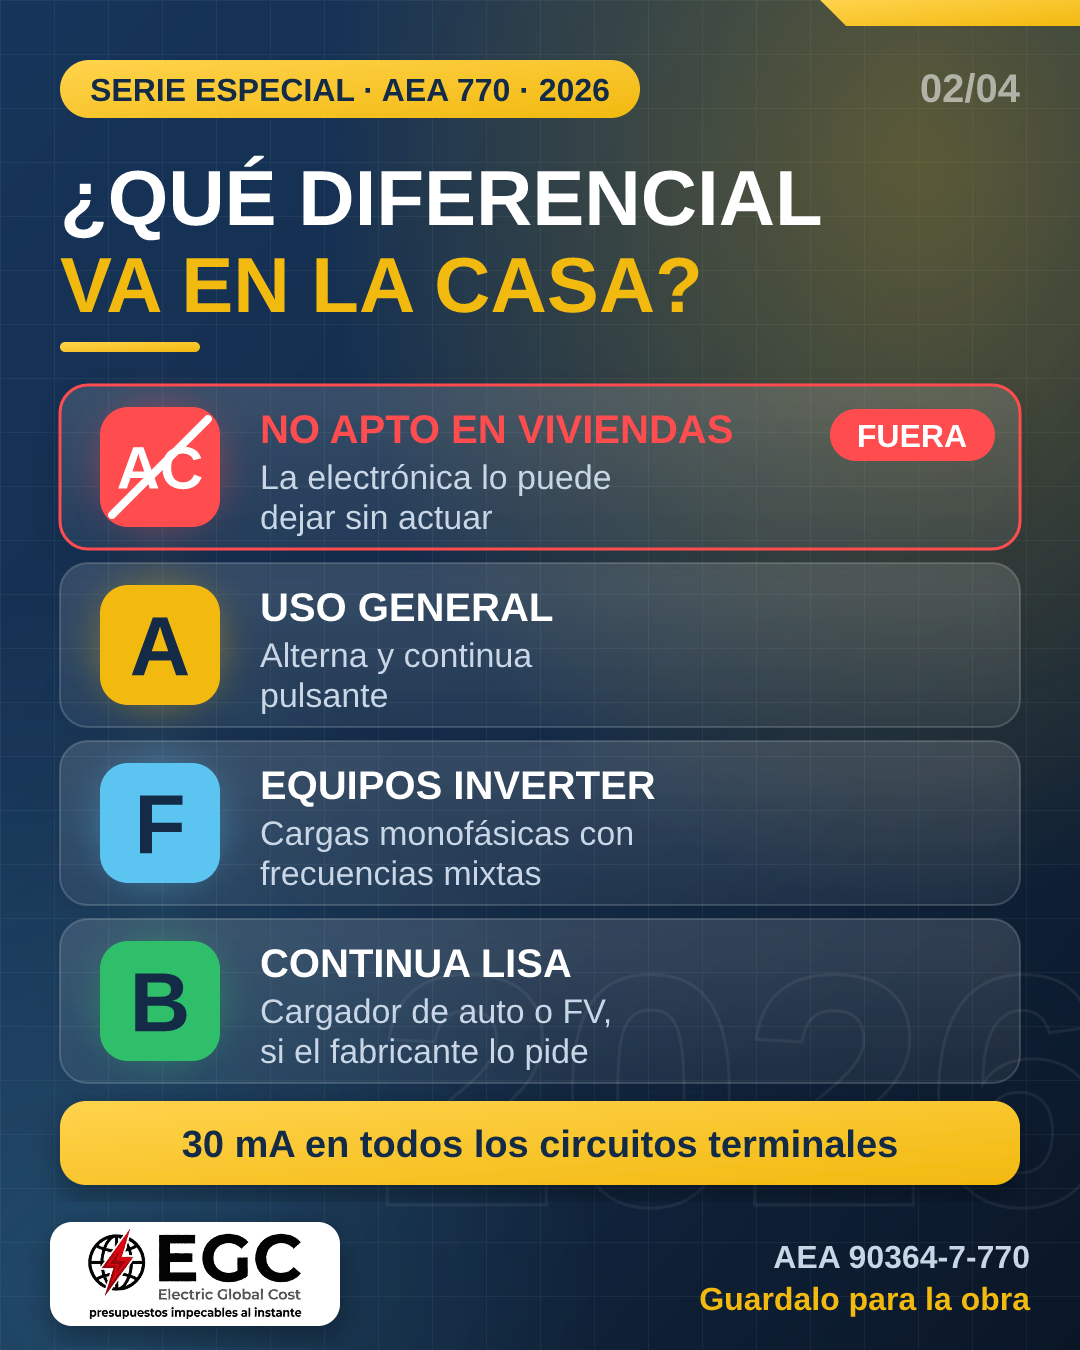
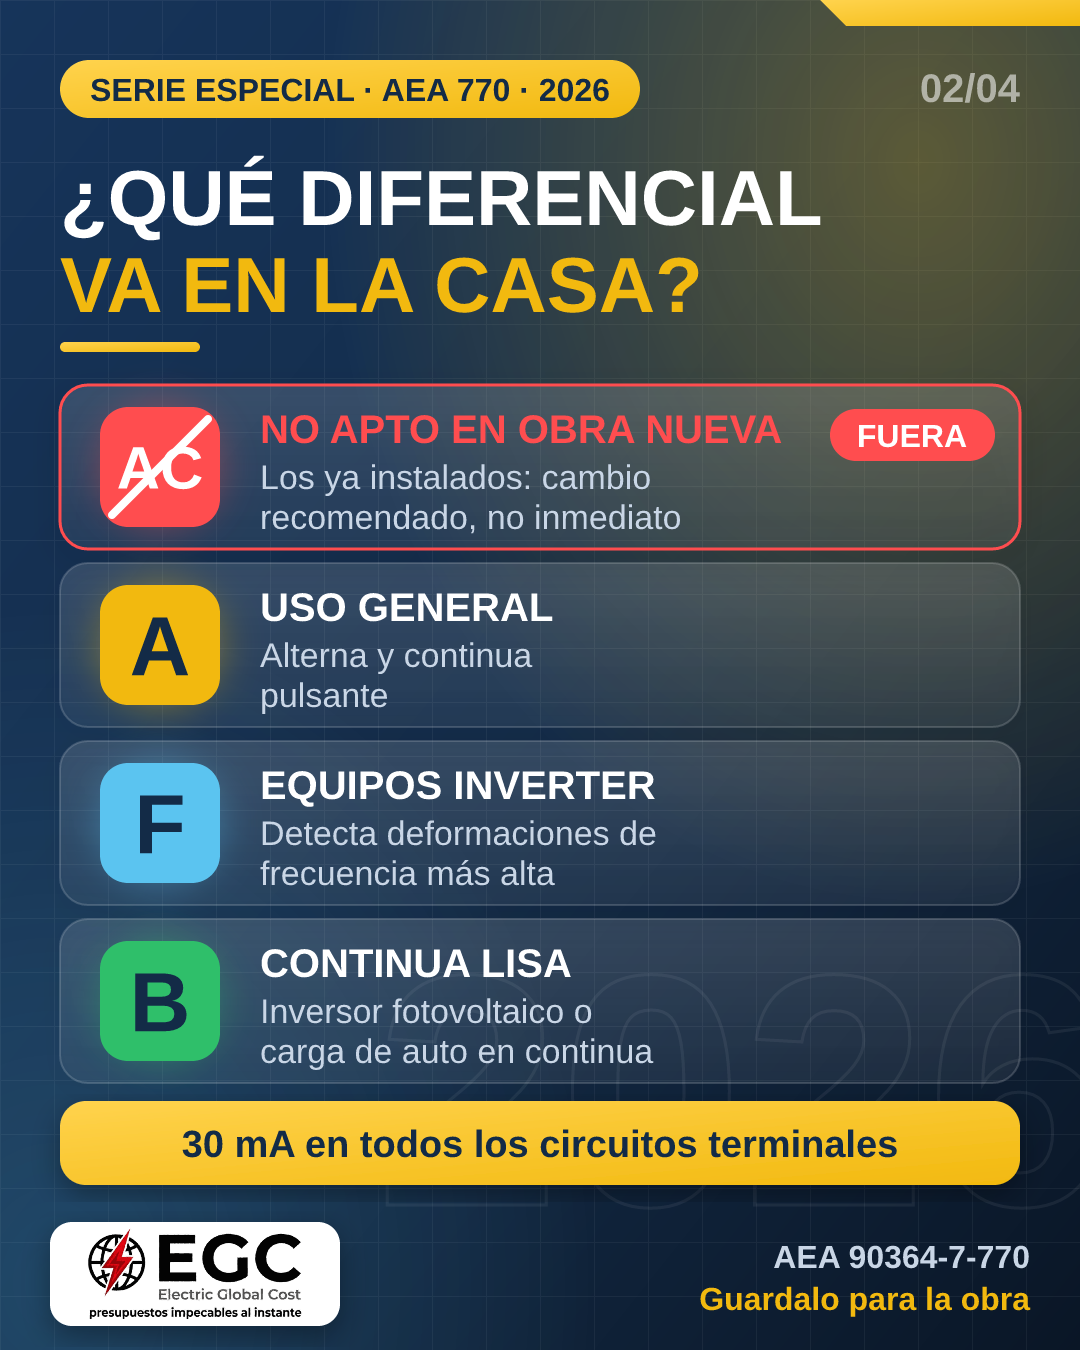
Ficha 52: AEA 770 2026 según el video del Comité 10; corrige ficha 51 y placa de diferenciales
Claude-Session: https://claude.ai/code/session_01KVi6ikw2M5hrQTqxr84mPn

Changed region(s): [[0.2444, 0.3111, 0.7333, 0.4044], [0.2444, 0.7156, 0.6111, 0.8089], [0.2444, 0.5911, 0.6111, 0.6533]]

diff --git a/generador/extra-aea2026-diferenciales.py b/generador/extra-aea2026-diferenciales.py
@@ -6,10 +6,10 @@ from serie2026 import *
 s = fondo(2, 4, '¿QUÉ DIFERENCIAL', 'VA EN LA CASA?')
 
 filas = [
-    ('AC', ROJO, 'NO APTO EN VIVIENDAS', 'La electrónica lo puede', 'dejar sin actuar'),
+    ('AC', ROJO, 'NO APTO EN OBRA NUEVA', 'Los ya instalados: cambio', 'recomendado, no inmediato'),
     ('A', AMA, 'USO GENERAL', 'Alterna y continua', 'pulsante'),
-    ('F', CIAN, 'EQUIPOS INVERTER', 'Cargas monofásicas con', 'frecuencias mixtas'),
-    ('B', VERDE, 'CONTINUA LISA', 'Cargador de auto o FV,', 'si el fabricante lo pide'),
+    ('F', CIAN, 'EQUIPOS INVERTER', 'Detecta deformaciones de', 'frecuencia más alta'),
+    ('B', VERDE, 'CONTINUA LISA', 'Inversor fotovoltaico o', 'carga de auto en continua'),
 ]
 Y0, H, G = 385, 164, 14
 for i, (letra, color, tit, l1, l2) in enumerate(filas):

diff --git a/CLAUDE.md b/CLAUDE.md
@@ -190,11 +190,11 @@ Los comerciales los publica GitHub (workflow `publicar-comerciales.yml`) directo
 
 Resumen. El detalle y las referencias exactas están en `conocimiento/`.
 
-- **AEA 90364-7-770 EDICIÓN 2026 VIGENTE desde el 1/11/2026.** Las fichas 01 a 12 son de la edición 2017. Aplicación obligatoria desde el **1/3/2027** (ficha 51). Antes de afirmar un valor, revisar `conocimiento/49`, `50` y `51`: si cambió, usar el de 2026 y decir "edición 2026". Cambios clave: PAT ≤ 100 Ω; tipo AC no apto; obra nueva = un circuito de uso general por caño (excepción 3 circuitos / 40 A solo en reformas, sin límite de 15 bocas); IUE máx. 15 bocas y 32 A; simultaneidad 10 o más circuitos = 0,50; tomas a 20 cm o más del piso y 15 cm sobre mesada; llaves a 1,10 m y a 25 cm del marco. La numeración de cláusulas cambió: citar números de cláusula 2026 solo si figuran en la ficha 50.
+- **AEA 90364-7-770 EDICIÓN 2026 VIGENTE desde el 1/11/2026.** Las fichas 01 a 12 son de la edición 2017. Aplicación obligatoria desde el **1/3/2027** (ficha 51). Antes de afirmar un valor, revisar `conocimiento/49`, `50`, `51` y `52`: si cambió, usar el de 2026 y decir "edición 2026". Cambios clave: PAT ≤ 100 Ω; tipo AC no apto; obra nueva = un circuito de uso general por caño (excepción 3 circuitos / 40 A solo en reformas, sin límite de 15 bocas); IUE máx. 15 bocas y 32 A; simultaneidad 10 o más circuitos = 0,50; tomas a 20 cm o más del piso y 15 cm sobre mesada; llaves a 1,10 m y a 25 cm del marco. La numeración de cláusulas cambió: citar números de cláusula 2026 solo si figuran en la ficha 50.
 - **Colores (AEA 90364-7-770, Tabla 770.10.XIII):** fases R castaño, S negro, T rojo; neutro **celeste**; conductor de protección **verde-amarillo**. Celeste/azul solo neutro; verde-amarillo solo PE; verde o amarillo sueltos, prohibidos.
 - **Retornos y viajeros:** **no** llevan colores de fase (castaño, negro, rojo), ni de neutro, ni de PE, ni verde ni amarillo. Van en un color no reservado. Solo por fuerza mayor se admite un color de fase, identificado en los dos extremos de cada tramo (770.10.3.8.5 c). → `conocimiento/03`.
 - **Diferencial:** **todos los circuitos terminales** llevan diferencial de IΔn ≤ 30 mA, no retardado (770.14.2.3). Es protección complementaria contra contactos directos. En TT es la única protección aceptada contra contactos indirectos por corte automático (la termomagnética no sirve para eso) (770.14.3.2).
-- **Puesta a tierra:** esquema **TT** obligatorio; toma de tierra propia con resistencia **≤ 100 Ω** (AEA 770 edición 2026; la 2017 pedía 40 Ω). Hasta 200 Ω solo con admisión de la autoridad local y diferencial de 30 mA. → `conocimiento/49` y `50`. Todas las masas al PE. PE mínimo **2,5 mm²**, recorre todas las cajas y bocas; masas conectadas por derivación, **nunca en serie ("guirnalda")** (770.14.4.5). Cable de puesta a tierra mínimo 4 mm². → `conocimiento/06`.
+- **Puesta a tierra:** esquema **TT** obligatorio; toma de tierra propia con resistencia **≤ 100 Ω** (AEA 770 edición 2026; la 2017 pedía 40 Ω). Hasta 200 Ω solo si la autoridad de aplicación provincial lo admite y con diferencial de 30 mA. → `conocimiento/49`, `50` y `52`. Todas las masas al PE. PE mínimo **2,5 mm²**, recorre todas las cajas y bocas; masas conectadas por derivación, **nunca en serie ("guirnalda")** (770.14.4.5). Cable de puesta a tierra mínimo 4 mm². → `conocimiento/06`.
 - **Llaves:** la llave unipolar corta la fase, nunca el neutro (regla de la AEA 90364; no está escrita en la 770: citar solo "reglamentación AEA 90364").
 - **Termomagnéticas y cabeceras:** en monofásico, protecciones **bipolares con los dos polos protegidos**; prohibidas unipolares, "1P+N" y "neutro pasante" (770.16.5.1). Cabecera del tablero principal: termomagnética bipolar (tetrapolar en trifásico) de 63 A como máximo (770.16.5.3). Las cabeceras seccionan el neutro. → `conocimiento/05`.
 - **Diferenciales y neutros:** todo lo que sale por un diferencial vuelve por ese mismo diferencial. Nada de bornera de neutro común aguas abajo de varios diferenciales.
@@ -204,7 +204,7 @@ Resumen. El detalle y las referencias exactas están en `conocimiento/`.
 - **Motores:** maniobra que corte fase y neutro; protección de sobrecarga dedicada (termomagnética y fusible no sirven para sobrecarga de motor) (770.13.3).
 - **Alcance:** 90364-7-770 = viviendas unifamiliares hasta 63 A y 10 kA de cortocircuito (BA2 y BD1), ed. 2017. 90364-7-771 = viviendas, oficinas y locales (unitarios).
 - **Tiempos del diferencial tipo general (IEC 61008-1):** hasta 300 ms con IΔn, 150 ms con 2×IΔn, 40 ms con 5×IΔn. "30 mA" es sensibilidad, no tiempo.
-- **Diferencial tipo A:** desde la edición 2026 el tipo **AC es no apto** en viviendas. Uso general: **tipo A**. Inverter monofásico: **tipo F**. Cargador de auto o inversor FV, si el fabricante lo pide: **tipo B**. → `conocimiento/49` y `50`.
+- **Diferencial tipo A:** desde la edición 2026 el tipo **AC es no apto** en viviendas. Uso general: **tipo A**. Inverter monofásico: **tipo F**. Inversor FV o carga de auto en continua: **tipo B** (no afirmar que todo wallbox pide B: remitir a AEA 90364-7-722 y al manual). El AC no apto rige para **obra nueva**; en lo existente el cambio es **recomendado**, no inmediato: nunca decir "hay que cambiar todos". → `conocimiento/49`, `50` y `52`.
 - **Aire acondicionado · circuito:** la norma decide por la corriente del equipo, no por las frigorías: toma 10 A hasta 10 A; toma 20 A (TUE) hasta 20 A; un solo equipo sin derivaciones = ACU (771.7.6). Los fabricantes piden línea exclusiva, sin otros aparatos. Diferencial de 30 mA obligatorio también en ese circuito (770.14.2.3; 771.18.3.5). Cable de interconexión de más de 3 m, o con varias unidades esclavas = parte de la instalación (770.1). → `conocimiento/14` y `18`.
 - **Aire acondicionado · instalación:** manda el manual del modelo. Reglas que se repiten en todos: pasamuros Ø 65 mm con pendiente hacia afuera; desagote con pendiente continua, sin panzas y con la punta fuera del agua; aislar los dos caños; cortatubos, tuerca antes de abocardar, doble llave y torque; vacío con bomba 15 min mínimo; fugas con agua jabonosa; tierra obligatoria. Nitrógeno seco con regulador, **nunca oxígeno**. → `conocimiento/16` y `17`.
 - **Refrigerantes:** R-22 prohibido en equipos domésticos **nuevos** desde 2013 (Res. SAyDS 1640/2012); la resolución no habla de recargas. R-32 es A2L (ligeramente inflamable). No mezclar gases ni aceites. No ventear. → `conocimiento/19`.

diff --git a/conocimiento/52-aea-770-2026-video-comite-10.md b/conocimiento/52-aea-770-2026-video-comite-10.md
@@ -1,0 +1,73 @@
+# 52 · AEA 90364-7-770 edición 2026: explicación del Comité 10 (video "Experiencia AEAconectada")
+
+Fuente: video **"Experiencia AEAconectada"**, canal oficial de YouTube de la AEA (https://www.youtube.com/watch?v=fsa10yqfvFg), 1 h 37 min. Expositores: integrantes del **Comité 10**, redactores de la norma.
+Se leyó la transcripción automática de YouTube (19/11/2026). Puede tener errores de reconocimiento de voz.
+Estado: **OFICIAL, oral**. Es la explicación de los redactores, no el texto de la norma. Ante duda, gana el texto impreso.
+Esta ficha **confirma o corrige** la ficha 51. Donde difieren, gana esta.
+
+## Fechas
+- Vigencia: **1/11/2026**. Aplicación: **1/3/2027**. Lo dijo el presidente de la AEA en la apertura.
+
+## Diferencial tipo AC (aclaración oficial)
+- Obra nueva: tipo **A como mínimo**.
+- Instalaciones existentes: **no** hay que cambiar el AC de inmediato. Se **recomienda** migrar al tipo A en todo inmueble con carga electrónica.
+- La 771 (oficinas y locales) y la 772 todavía no hablan del AC. Donde la norma no lo diga, el AC se puede seguir usando. Se tratará en esas secciones más adelante.
+- La AEA pidió no comunicar en redes que "hay que cambiar todos los diferenciales".
+- Por qué el AC no sirve: los armónicos y la corriente pulsante de los equipos inverter saturan su núcleo. Ante una fuga puede no actuar ("queda ciego").
+- **Tipo A:** ve fugas con onda deformada.
+- **Tipo F:** como el A, con deformaciones de frecuencia más alta (más de 1 kHz).
+- **Tipo B:** además ve **corriente continua**. Contexto: inversores, instalaciones fotovoltaicas y **estaciones de carga en continua** (las grandes). El expositor aclaró que **no** se refería a los wallbox domiciliarios.
+- El diferencial "superinmunizado" o "a prueba de ruido" es un **tipo A** con filtro adicional.
+- El tema figura en el prólogo y en una cláusula de protecciones (número dudoso en la transcripción: **sin número verificado**).
+
+## Puesta a tierra (TT)
+- Máximo **100 Ω** con diferencial de **300 mA**. Respaldo: informe técnico **AEA 90479-5**.
+- Hasta **200 Ω** solo donde la **autoridad de aplicación provincial** lo decida, por terreno de alta resistividad, y con diferencial de **30 mA** (no 300 mA).
+- Historia del 40 Ω (edición 2017): 80 Ω daban ≤ 24 V de contacto con 300 mA. Se aplicó un margen del 100 % por el aumento de la resistencia con los años (≈ +87 % medido en 17 años).
+
+## Proyecto
+- **IUE:** demanda **120 VA por boca × 2/3** (antes 500 VA). Protección máxima **32 A**. **Confirmado por el redactor.**
+- IUE ya no es solo para intemperie: se admiten bocas en semicubiertos y en interiores.
+- Todos los circuitos de uso especial: **15 bocas** máximo (antes había 12 y 15).
+- Se permite reemplazar un circuito de uso general exigido por el grado por uno de uso especial (para no sumar un circuito más). **Verificar alcance en el texto.**
+- Ventilador de techo: se suman motor y luminarias; cuenta como **una boca**.
+- Toma derivado en toilette: cable de **2,5 mm²** mínimo.
+- Todo ambiente, cualquiera sea su uso: al menos **una boca de iluminación**.
+- IUG: el límite pasa de "10 A por carga" a **10 A por boca**. En tomacorrientes sigue igual.
+- Simultaneidad por circuitos **efectivamente instalados**: 2 → 1 · 3 a 5 → 0,7 · 6 a 9 → 0,6 · 10 o más → 0,5 (coincide con ficha 50).
+- DPMS: se suman los circuitos de carga de vehículos eléctricos.
+- Grado de electrificación, número mínimo de circuitos y puntos mínimos: **sin cambios**.
+- Varias recomendaciones pasan a ser obligatorias (sin detalle en la charla).
+
+## Otros sistemas
+- Fotovoltaica: AEA 712 (nueva edición en preparación). En isla: AEA 90364-8-82, con anexo reglamentario para inmuebles.
+- SAI y baterías estacionarias (litio o plomo-ácido): **AEA 90364-5-57**. Baterías accesibles a BA1/BA2; operación por BA4/BA5.
+- Vehículo eléctrico: **AEA 90364-7-722, edición 2024**. Circuito específico y protección propia.
+
+## Canalizaciones y conectores
+- El caño trae grabados al menos 2 dígitos: **23**, **33** o **44**. Indican el ámbito de uso.
+- Corrugado blanco = **liviano**: solo **obra en seco** (steel frame, placa de yeso).
+- Mampostería: **33 y 44** en adelante, según la obra.
+- Norma del caño: **IRAM 62386**. Certificar los **12 dígitos**, no solo la no propagación de llama.
+- Mangueras sin norma: problema frecuente. Pedir certificados al distribuidor.
+- Nueva tabla resumen de selección de caños en la subcláusula 12 (número exacto **sin verificar**).
+- Conectores de empalme: **IEC 60947** o **IEC 60998**. Pedir el certificado.
+
+## Tableros
+- Alcance: operados por BA1, vivienda con BA1 y BA2, hasta 63 A y 10 kA.
+- Gabinete vacío **IEC 60670** (verificación térmica: anexo D) o **IEC 62208** (verificación térmica: informe técnico **AEA 90890**). Dato clave: potencia máxima disipable que declara el fabricante.
+- Sigue valiendo IEC 61439-1 y -3.
+- Nueva definición: **aparamenta** (elementos de mando, maniobra, protección y medición).
+- Cinco responsables: proyectista, tablerista, instalador, propietario y quien hace mantenimiento o modificaciones.
+
+## AFDD
+- Recomendado como protección suplementaria.
+- **Obligatorio** con cañerías aislantes en construcciones de **madera** o con aislaciones **EPS** (telgopor, Euroclase F, propagante de llama).
+- AFD = sensor + lógica (manda a un interruptor asociado). AFDD = sensor + lógica + dispositivo de corte.
+- Arco serie ≈ **2,5 A en 1 s**; arco paralelo ≈ **75 A en 12 semiciclos** ("según tablas"). No usar sin el texto de la norma.
+
+## Uso en EGC
+- Diferencial AC: decir siempre "obra nueva" y "cambio recomendado en lo existente". Nunca "hay que cambiar todos".
+- Tipo B: inversor FV o carga en continua. **No** afirmar que todo wallbox pide tipo B: remitir a la AEA 90364-7-722 y al manual.
+- Calculadora: IUE 120 VA × 2/3 por boca y 15 bocas; simultaneidad por circuitos instalados.
+- Antes de programar un valor nuevo, confirmar con el texto impreso.

diff --git a/conocimiento/51-aea-770-2026-presentacion-experiencia-aea.md b/conocimiento/51-aea-770-2026-presentacion-experiencia-aea.md
@@ -3,6 +3,7 @@
 Fuente: nota periodística "Novedades en la sección 770 de la AEA 90364" (crónica del encuentro **Experiencia AEA conectada**, transmitido por el canal de YouTube de la AEA). Medio sin identificar en la copia recibida. Recibida el 19/11/2026.
 Fuente **SECUNDARIA**: relata lo expuesto por la AEA, pero no es el texto de la norma. No trae cláusulas ni páginas.
 Control de calidad: se comparó con las fichas 02, 05, 06, 07, 09, 49 y 50. Las diferencias están en "Errores y dudas de la nota".
+**Actualización 19/11/2026:** el video de la presentación (ficha 52) confirma casi todo. Donde difieren, gana la ficha 52.
 
 ## Vigencia
 - Vigente desde el **1/11/2026** (coincide con la ficha 49).
@@ -14,7 +15,7 @@ Control de calidad: se comparó con las fichas 02, 05, 06, 07, 09, 49 y 50. Las 
 ### Proyecto y cálculo
 - **Simultaneidad:** el coeficiente se elige por la cantidad de circuitos **instalados**, no por los mínimos del grado de electrificación. (2017: por cantidad mínima de circuitos, ficha 02).
 - **IUE:** se admiten bocas en **semicubiertos e interiores**. Máximo **15 bocas** (coincide con la ficha 50).
-- **IUE, demanda por boca:** la nota dice "pasa de 500 a 120 VA con factor 2/3". **Dato dudoso:** no usar hasta tener el texto.
+- **IUE, demanda por boca:** pasa de 500 a **120 VA con factor 2/3**. Confirmado por el redactor en el video (ficha 52).
 - **Ventilador de techo:** se suman motor y luminarias y cuentan como **una sola boca**. (2017: una boca, sin regla de suma, ficha 02).
 - **Toma de toilette** derivada del circuito de iluminación: cable de **2,5 mm²** como mínimo. (2017 permitía la toma en el IUG, ficha 02).
 - Todo ambiente lleva **al menos una boca de iluminación**.
@@ -45,9 +46,8 @@ Control de calidad: se comparó con las fichas 02, 05, 06, 07, 09, 49 y 50. Las 
 
 ## Errores y dudas de la nota
 - **Tipos B y F invertidos.** La nota dice "B y F para mayores frecuencias y fugas de continua, respectivamente". Correcto: **F** = frecuencias mixtas (inverter monofásico); **B** = también continua lisa (ficha 50).
-- **200 Ω incompleto.** La nota omite la condición de **diferencial de 30 mA obligatorio** (ficha 50). Además dice autoridad "provincial"; la ficha 50 dice autoridad "local".
-- **"10 A por carga" mal redactado.** Es la **carga máxima** por boca de iluminación (10 A), no un valor que la boca "debe tener" (ficha 02).
-- **IUE 500 → 120 VA:** sin respaldo en otra fuente. La 770 de 2017 no tenía IUE (venía de la 771, ficha 14).
+- **200 Ω ambiguo.** La nota menciona 30 mA, pero no queda claro que es condición para los 200 Ω. Según el video (ficha 52): autoridad de aplicación **provincial** y diferencial de **30 mA**.
+- **"10 A por carga" mal.** Según el video (ficha 52), en IUG el límite pasa de 10 A por carga a **10 A por boca**.
 - Referencias abreviadas: "AEA 712" es **AEA 90364-7-712**.
 - Erratas: "tecnología invertir" (inverter), "de la de la", guiones de corte de línea ("funciona-miento", "exigien-do").
 
@@ -64,5 +64,5 @@ Control de calidad: se comparó con las fichas 02, 05, 06, 07, 09, 49 y 50. Las 
 - Fecha clave para posteos: **obligatoria desde el 1/3/2027**. Citar "según lo presentado por la AEA".
 - Diferencial: no afirmar que hay que cambiar ya los tipo AC existentes. Decir "recomendado".
 - Caños: código 23 solo en seco; mampostería 33 o 44. Sirve para posteos MAL/BIEN.
-- No usar el valor de 120 VA por boca IUE en la calculadora hasta tener la norma.
+- IUE 120 VA × 2/3 por boca: confirmado (ficha 52).
 - Antes de programar cualquier valor de esta ficha, confirmar con el texto de la edición 2026.

diff --git a/conocimiento/README.md b/conocimiento/README.md
@@ -65,6 +65,7 @@ Las armó Claude leyendo los documentos que juntó Fran. Los documentos original
 | [49-aea-770-edicion-2026-cambios.md](49-aea-770-edicion-2026-cambios.md) | AEA 770 edición 2026 (resumen oficial AEA): tipo AC no apto, PAT máx. 100 Ω en TT con diferencial ≤ 300 mA, movilidad eléctrica, FV, THD, IEC 61439 |
 | [50-aea-770-2017-vs-2026-detalle.md](50-aea-770-2017-vs-2026-detalle.md) | AEA 770 2017 vs 2026 por tema (Electroclima, secundaria): PAT 100 Ω (200 Ω con autoridad local), simultaneidad, caída de tensión, canalizaciones 40 A, alturas de tomas y llaves, IUE 15 bocas/32 A, DPS, IEC 61439 |
 | [51-aea-770-2026-presentacion-experiencia-aea.md](51-aea-770-2026-presentacion-experiencia-aea.md) | AEA 770 2026 según la presentación "Experiencia AEA conectada" (secundaria): obligatoria desde 1/3/2027, caños IRAM 62386 (23 solo en seco; 33/44 en mampostería), conectores IEC 60947/60998, gabinetes vacíos con verificación térmica, AFDD obligatorio en madera/EPS, toilette 2,5 mm². Lista de errores de la nota (tipos B/F invertidos, 200 Ω sin la condición de 30 mA) |
+| [52-aea-770-2026-video-comite-10.md](52-aea-770-2026-video-comite-10.md) | AEA 770 2026 explicada por el Comité 10 (video oficial AEA): AC no apto en obra nueva, existentes cambio recomendado; tipo B para inversor FV y carga en continua (no todo wallbox); 200 Ω solo con autoridad provincial y 30 mA; IUE 120 VA × 2/3, 32 A, 15 bocas; IUG 10 A por boca; caños 23/33/44; tableros; AFDD. **Gana sobre la 51** |
 
 ## Avisos sobre temas de `temas.md`
 

diff --git a/conocimiento/00-fuentes.md b/conocimiento/00-fuentes.md
@@ -145,6 +145,7 @@ Códigos usados en las fichas 14 a 22 entre paréntesis.
 
 | Documento | Estado | Ficha | Notas |
 |---|---|---|---|
+| Video "Experiencia AEAconectada", canal oficial de YouTube de la AEA (fsa10yqfvFg), 1 h 37 min. Transcripción automática | **OFICIAL, oral** (redactores del Comité 10) | 52 | Confirma la ficha 51 y corrige: tipo B no para todo wallbox; 200 Ω con autoridad provincial y 30 mA; IUE 120 VA × 2/3 confirmado. La transcripción puede tener errores. |
 | Nota "Novedades en la sección 770 de la AEA 90364", crónica del encuentro "Experiencia AEA conectada" (medio sin identificar) | **SECUNDARIA** (crónica de presentación oficial) | 51 | Obligatoria desde 1/3/2027. Errores detectados: tipos B y F invertidos; excepción de 200 Ω sin la condición de 30 mA; "10 A por carga" mal redactado. Dato dudoso: IUE 500 → 120 VA por boca. Confirmar con el texto de la norma. |
 
 ## Normas citadas que **no** están en esta biblioteca
